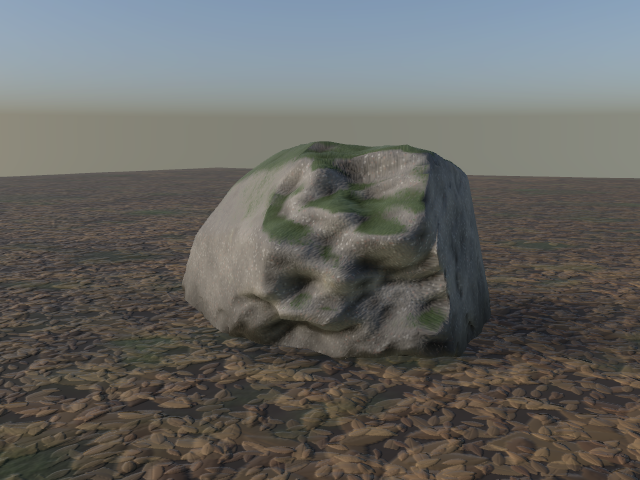
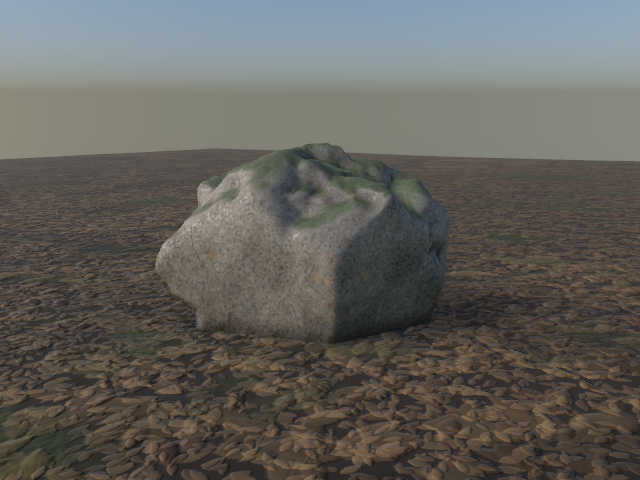
RockShape: warped ridged body, beveled fracture planes and chips, strata, flat tops, contact AO; boulder and pebbles use it

diff --git a/Sources/RealLibrary/Nature/Rocks/RockShape.swift b/Sources/RealLibrary/Nature/Rocks/RockShape.swift
@@ -1,0 +1,220 @@
+import simd
+import Foundation
+
+/// Shared rock geometry. A cube-sphere is ray-cast from the center: the radius along each direction is a
+/// smooth minimum of a domain-warped, ridged ellipsoid and a set of fracture planes. The smooth minimum
+/// leaves a small bevel on every fracture edge; planes cut close to the surface read as chips.
+/// Optional horizontal strata recess soft beds, and the base is flattened and sunk into the ground.
+public struct RockShape: Sendable {
+    /// Full extents in meters (x, y, z) before seed variation.
+    public var size: V3 = V3(1.6, 1.0, 1.3)
+    /// Low-frequency shape noise (fraction of radius).
+    public var lumps: Float = 0.22
+    /// Domain warp of the shape noise (0 = plain fBm).
+    public var warp: Float = 0.45
+    /// Ridged erosion relief (fraction of radius): sharp crests, rounded hollows.
+    public var erosion: Float = 0.1
+    /// Fine surface relief (fraction of radius).
+    public var detail: Float = 0.025
+    /// Large fracture planes and their distance as a fraction of the ellipsoid radius.
+    public var facets = 8
+    public var facetDepth: ClosedRange<Float> = 0.62...0.86
+    /// Small fracture planes near the surface.
+    public var chips = 10
+    /// Fracture planes stand vertical (broken outline of slabs and flat stones).
+    public var verticalFacets = false
+    /// Bevel width in meters at fracture edges.
+    public var bevel: Float = 0.035
+    /// Strata ledge depth in meters (0 = massive rock) and mean bed thickness.
+    public var strata: Float = 0
+    public var bedHeight: Float = 0.22
+    /// Vertical erosion gullies on the sides (fraction of radius), for buttes and cliffs.
+    public var gullies: Float = 0
+    /// Superellipse exponent for the ellipsoid (2 = ellipsoid, 3...4 = boxy blocks).
+    public var squareness: Float = 2
+    /// Fraction of the height buried below y = 0.
+    public var sink: Float = 0.15
+    /// Bottom flattening: fraction of the half-height below center that is pressed flat.
+    public var flatBase: Float = 0.55
+    /// Upper surface flattening for slabs and stepping stones (0 = none, 1 = flat top at the cut).
+    public var flatTop: Float = 0
+    public init() {}
+
+    public func with(_ edit: (inout RockShape) -> Void) -> RockShape { var c = self; edit(&c); return c }
+
+    /// One rock at the given cube-sphere subdivisions per LOD, sharing the same shape.
+    /// Positions are grounded: center on X/Z, base at -sink * height.
+    public func surfaces(seed: UInt64, material: MaterialKey, detail lods: [Int]) -> [Surface] {
+        var rng = SeededRNG(seed: seed)
+        let e = V3(rng.vary(size.x, 0.18), rng.vary(size.y, 0.2), rng.vary(size.z, 0.18)) / 2
+        let ns = UInt32(truncatingIfNeeded: seed &* 0x9E37_79B9)
+        let o1 = rng.unitVector() * 17, o2 = rng.unitVector() * 23, o3 = rng.unitVector() * 31
+        func ell(_ d: V3) -> Float {
+            let q = simd_abs(d / e), p = squareness
+            let s = powf(q.x, p) + powf(q.y, p) + powf(q.z, p)
+            return powf(max(s, 1e-9), -1 / p)
+        }
+        var planes: [(V3, Float)] = []
+        for _ in 0..<facets {
+            var n = rng.unitVector(); n.y *= verticalFacets ? 0.05 : 0.7
+            n = simd_normalize(n)
+            planes.append((n, ell(n) * rng.float(facetDepth)))
+        }
+        for _ in 0..<chips {
+            var n = rng.unitVector(); n.y = verticalFacets ? n.y * 0.05 : abs(n.y) * 0.6 - 0.1
+            n = simd_normalize(n)
+            planes.append((n, ell(n) * rng.float(0.86...0.95)))
+        }
+        let topCut = flatTop > 0 ? e.y * rng.float(0.35...0.55) : 0
+        let bed = bedHeight, bedPhase = rng.float(0...1)
+        func smin(_ a: Float, _ b: Float, _ k: Float) -> Float {
+            let h = max(k - abs(a - b), 0) / k
+            return min(a, b) - h * h * k * 0.25
+        }
+        func radius(_ d: V3) -> Float {
+            let wv = V3(Noise.fbm(d * 1.1 + o1, octaves: 3, seed: ns), Noise.fbm(d * 1.1 + o2, octaves: 3, seed: ns &+ 1),
+                        Noise.fbm(d * 1.1 + o3, octaves: 3, seed: ns &+ 2))
+            let dw = simd_normalize(d + wv * warp)
+            var r = ell(d)
+            let big = Noise.fbm(dw * 1.4, octaves: 3, seed: ns &+ 3)
+            let ridge = Noise.ridged(dw * 2.6, octaves: 4, seed: ns &+ 4) - 0.35
+            let fine = Noise.fbm(dw * 7, octaves: 3, seed: ns &+ 5)
+            // Flat-topped shapes keep the upper hemisphere smooth so the cut stays planar.
+            let calm: Float = flatTop > 0 ? 1 - flatTop * smoothstep(-0.05, 0.25, d.y) * 0.85 : 1
+            r *= 1 + (big * lumps * 2 + ridge * erosion * 2 + fine * detail * 2) * calm
+            if gullies > 0 {
+                let g = Noise.ridged(V3(dw.x * 3.5, dw.y * 0.7, dw.z * 3.5), octaves: 3, seed: ns &+ 12)
+                r *= 1 - gullies * smoothstep(0.35, 0.8, g) * (1 - abs(d.y))
+            }
+            for (n, k) in planes {
+                let c = simd_dot(d, n)
+                if c > 1e-3 {
+                    let wob = 1 + 0.015 * Noise.fbm(d * 6 + n * 3, octaves: 2, seed: ns &+ 6)
+                    r = smin(r, k * wob / c, bevel)
+                }
+            }
+            if topCut > 0 && d.y > 1e-3 {
+                let t = (topCut + 0.01 * Noise.fbm(d * 5, octaves: 2, seed: ns &+ 9) * e.y) / d.y
+                r = smin(r, lerp(r, t, flatTop), bevel * 1.5)
+            }
+            if strata > 0 {
+                // Soft beds recess horizontally; hardness is constant per bed with sharp changes.
+                let y = d.y * r
+                var b = y / bed + bedPhase + 0.25 * Noise.fbm(V3(d.x, 0, d.z) * 2, octaves: 2, seed: ns &+ 7)
+                b += 0.35 * Noise.perlin(V3(0, b * 0.5, 0.5), seed: ns &+ 8)
+                let i = b.rounded(.down), t = b - i
+                func hard(_ k: Float) -> Float { 0.5 + 0.5 * Noise.perlin(V3(k * 0.618 + 0.31, 0.27, 0.73), seed: ns &+ 10) * 1.4 }
+                let h = lerp(hard(i), hard(i + 1), smoothstep(0.88, 1.0, t))
+                let undercut = smoothstep(0.7, 0.95, t) * 0.35
+                let horiz = (1 - d.y * d.y).squareRoot()
+                let vary = 0.55 + 0.9 * saturate(0.5 + Noise.fbm(V3(d.x * 2.5, i * 0.37, d.z * 2.5), octaves: 2, seed: ns &+ 11))
+                r -= strata * ((1 - h) + undercut) * horiz * vary
+            }
+            return r
+        }
+        let flatY = -e.y * flatBase
+        func shape(_ d: V3) -> V3 {
+            var p = d * radius(d)
+            if p.y < flatY { p.y = flatY + (p.y - flatY) * 0.12 }
+            return p
+        }
+        let yaw = simd_quatf(angle: rng.float(0...(2 * .pi)), axis: V3(0, 1, 0))
+        return lods.map { n in
+            var s = Prim.cubeSphere(subdivisions: n, material: material) { yaw.act(shape($0)) }
+            let b = s.bounds, h = b.max.y - b.min.y
+            let off = V3(-(b.min.x + b.max.x) / 2, -b.min.y - h * sink, -(b.min.z + b.max.z) / 2)
+            s.positions = s.positions.map { $0 + off }
+            // Box-mapped UVs by dominant normal axis: cube-face UVs stretch where squashed shapes wrap a side
+            // face over the top, which streaks the normal map.
+            s.uvs = zip(s.positions, s.normals).map { p, n in
+                let a = simd_abs(n)
+                return a.y >= a.x && a.y >= a.z ? V2(p.x, p.z) : (a.x >= a.z ? V2(p.z, p.y) : V2(p.x, p.y))
+            }
+            s.computeTangents()
+            s.occlusion = Array(repeating: 1, count: s.positions.count)
+            s.bakeCavityAO(strength: 0.8)
+            return s
+        }
+    }
+}
+
+/// Contact darkening for rocks on the ground: a dark dirt line where the rock meets y = 0, a softer
+/// gradient over the lower third, and the underside fully occluded.
+func rockContactAO(_ s: inout Surface, height h: Float) {
+    if s.occlusion.count != s.positions.count { s.occlusion = Array(repeating: 1, count: s.positions.count) }
+    for i in s.positions.indices {
+        let y = s.positions[i].y
+        let line = lerp(0.35, 1, smoothstep(-0.02, 0.06 + h * 0.04, y))
+        let broad = lerp(0.7, 1, smoothstep(0, h * 0.45, y))
+        let under = s.normals.count == s.positions.count ? lerp(0.55, 1, smoothstep(-0.6, 0.1, s.normals[i].y)) : 1
+        s.occlusion[i] = min(1, max(0, s.occlusion[i] * line * broad * under))
+    }
+}
+
+/// Darken vertices that sit close to neighboring rocks (center, radius) in a pile.
+func rockProximityAO(_ s: inout Surface, rocks: [(V3, Float)], skip: Int? = nil) {
+    for i in s.positions.indices {
+        var o: Float = 1
+        let p = s.positions[i]
+        for (k, (c, r)) in rocks.enumerated() where k != skip {
+            let d = simd_distance(p, c)
+            if d < r * 1.6 { o *= lerp(0.55, 1, smoothstep(r * 0.85, r * 1.6, d)) }
+        }
+        s.occlusion[i] *= o
+    }
+}
+
+/// One rock in a multi-rock asset: shape, seed, placement and material.
+struct RockPart {
+    var shape: RockShape
+    var seed: UInt64
+    var xform: Xform
+    var material: MaterialKey
+}
+
+/// Build a rock cluster per LOD. `detail(part, lod)` returns cube-sphere subdivisions, or nil to drop the
+/// part at that LOD. Applies contact AO (after placement) and proximity AO between parts.
+func rockCluster(name: String, parts: [RockPart], lods: Int, facets: Bool = false, detail: (Int, Int) -> Int?) -> [Model] {
+    // Shape once per part at every subdivision it needs.
+    var meshes: [[Int: Surface]] = []
+    var spheres: [(V3, Float)] = []
+    for (i, p) in parts.enumerated() {
+        let subs = Array(Set((0..<lods).compactMap { detail(i, $0) })).sorted(by: >)
+        let surfs = p.shape.surfaces(seed: p.seed, material: p.material, detail: subs)
+        var byN: [Int: Surface] = [:]
+        for (n, s) in zip(subs, surfs) { byN[n] = s.transformed(p.xform) }
+        meshes.append(byN)
+        if let s = byN.values.first {
+            let b = s.bounds, e = (b.max - b.min) / 2
+            spheres.append(((b.min + b.max) / 2, (e.x + e.y + e.z) / 3))
+        } else { spheres.append((.zero, 0)) }
+    }
+    let top = spheres.map { $0.0.y + $0.1 }.max() ?? 1
+    return (0..<lods).map { lod in
+        var m = Model(name: name)
+        for i in parts.indices {
+            guard let n = detail(i, lod), var s = meshes[i][n] else { continue }
+            rockProximityAO(&s, rocks: spheres, skip: i)
+            rockContactAO(&s, height: max(0.2, min(top, spheres[i].0.y + spheres[i].1)))
+            m.add(facets ? facetted(s) : s)
+        }
+        return m
+    }
+}
+
+/// Split every triangle into its own vertices with the face normal: hard edges for small low-poly
+/// broken rocks, whose few large facets would otherwise smooth into a blob.
+func facetted(_ s: Surface) -> Surface {
+    var o = Surface(material: s.material)
+    let occ = s.occlusion.count == s.positions.count ? s.occlusion : Array(repeating: 1, count: s.positions.count)
+    for t in stride(from: 0, to: s.indices.count, by: 3) {
+        let i = (0..<3).map { Int(s.indices[t + $0]) }
+        let n = simd_normalize(simd_cross(s.positions[i[1]] - s.positions[i[0]], s.positions[i[2]] - s.positions[i[0]]))
+        guard n.x.isFinite else { continue }
+        let base = UInt32(o.positions.count)
+        for k in i { _ = o.add(s.positions[k], n, s.uvs[k]); o.occlusion.append(occ[k]) }
+        o.tri(base, base + 1, base + 2)
+    }
+    o.computeTangents()
+    return o
+}

diff --git a/Sources/RealLibrary/Nature/Rocks/Boulder.swift b/Sources/RealLibrary/Nature/Rocks/Boulder.swift
@@ -1,51 +1,40 @@
 import simd
 import Foundation
 
-/// Granite boulder: cube-sphere with ridged displacement, planar fracture facets, flattened, sunk base.
+/// Granite boulder about 1.6 x 1.0 x 1.3 m: warped, ridged body cut by beveled fracture planes and chips,
+/// base sunk 15 percent into the ground with a dark dirt line. 3 LODs.
 public struct Boulder: RealAsset {
     public static let id = "boulder"
-    public static let summary = "Faceted granite boulder, cube-sphere + ridged noise + fracture planes, 3 LODs."
+    public static let summary = "Granite boulder, 1.6 m: warped ridged body, beveled fracture faces and chips, sunk base with dirt line, 3 LODs."
     public static let tags = ["nature", "rock"]
-    public static let budget = 12_000
+    public static let budget = 15_000
 
     public var size: V3 = V3(1.6, 1.0, 1.3)
     public var material: MaterialKey = "rock.granite"
-    public var facets = 9
+    public var facets = 8
+    public var chips = 10
+    /// Shape noise amount; 0.3 is a typical weathered boulder, 0.1 a fresh angular block.
     public var roughness: Float = 0.3
     /// Cube-sphere subdivisions per LOD.
-    public var detail: [Int] = [28, 12, 5]
+    public var detail: [Int] = [34, 15, 6]
     public var lodDistances: [Float] = [10, 30]
     public init() {}
 
+    public var shape: RockShape {
+        RockShape().with {
+            $0.size = size; $0.facets = facets; $0.chips = chips
+            $0.lumps = 0.2 * roughness / 0.3; $0.erosion = 0.06 * roughness / 0.3; $0.detail = 0.018
+            $0.bevel = max(0.012, 0.025 * min(size.x, size.y, size.z))
+        }
+    }
+
     public func build(seed: UInt64) -> LODModel {
-        var rng = SeededRNG(seed: seed)
-        let s = V3(rng.vary(size.x, 0.2), rng.vary(size.y, 0.25), rng.vary(size.z, 0.2)) / 2
-        let ns = UInt32(truncatingIfNeeded: seed)
-        var planes: [(V3, Float)] = []
-        for _ in 0..<facets {
-            var n = rng.unitVector(); n.y = abs(n.y) * 0.8 + 0.1
-            planes.append((simd_normalize(n), rng.float(0.62...0.85)))
+        let h = size.y
+        let levels = shape.surfaces(seed: seed, material: material, detail: detail).map { s -> Model in
+            var s = s
+            rockContactAO(&s, height: h)
+            return Model(name: Self.id, surfaces: [s])
         }
-        let r = roughness
-        func shape(_ d: V3) -> V3 {
-            var p = d
-            let big = Noise.fbm(d * 1.3, octaves: 3, seed: ns) * 0.35
-            let ridge = Noise.ridged(d * 2.4, octaves: 4, seed: ns &+ 7) * 0.5
-            p *= 1 + (big + ridge - 0.2) * r * 2.2
-            // Fracture facets: clamp to random planes (scaled space) for broken-stone flats.
-            for (n, k) in planes { let dd = simd_dot(p, n); if dd > k { p -= n * (dd - k) * 0.92 } }
-            var q = p * s
-            if q.y < -s.y * 0.55 { q.y = -s.y * 0.55 + (q.y + s.y * 0.55) * 0.15 }  // flat-ish base
-            return q
-        }
-        func lod(_ n: Int) -> Model {
-            var surf = Prim.cubeSphere(subdivisions: n, material: material, radius: shape)
-            let minY = surf.bounds.min.y
-            surf.positions = surf.positions.map { V3($0.x, $0.y - minY - s.y * 0.18, $0.z) }  // sink into ground
-            surf.occlusion = surf.positions.map { 0.35 + 0.65 * smoothstep(-0.05, s.y * 0.5, $0.y) }  // contact shadow
-            surf.bakeCavityAO(strength: 1.2)
-            return Model(name: Self.id, surfaces: [surf])
-        }
-        return LODModel(levels: detail.map(lod), switchDistances: Array(lodDistances.prefix(detail.count - 1)))
+        return LODModel(levels: levels, switchDistances: Array(lodDistances.prefix(detail.count - 1)))
     }
 }

diff --git a/Sources/RealLibrary/Nature/Rocks/Pebbles.swift b/Sources/RealLibrary/Nature/Rocks/Pebbles.swift
@@ -1,24 +1,27 @@
 import simd
 import Foundation
 
-/// Scatter of small stones (single mesh, one draw).
+/// Scatter of 8 to 20 small rounded stones, 4 to 14 cm, over a 1.2 m disc, in one mesh.
 public struct Pebbles: RealAsset {
     public static let id = "pebbles"
-    public static let summary = "Cluster of 8-20 small rounded stones in one mesh."
+    public static let summary = "Cluster of 8-20 small rounded stones, 4-14 cm, in one mesh."
     public static let tags = ["nature", "rock"]
     public static let budget = 10_000
     public var radius: Float = 0.6
     public var count = 14
+    public var material: MaterialKey = "rock.river"
     public init() {}
     public func build(seed: UInt64) -> LODModel {
         var rng = SeededRNG(seed: seed)
-        var m = Model(name: Self.id)
-        for i in 0..<count {
-            let p = rng.inDisc(radius: radius), sz = rng.float(0.04...0.14)
-            let b = Boulder().with { $0.size = V3(sz * 1.4, sz * 0.8, sz * 1.1); $0.facets = 2; $0.roughness = 0.12; $0.detail = [5] }
-            let one = b.build(seed: seed &+ UInt64(i)).levels[0]
-            m.add(one, Xform(translation: V3(p.x, 0, p.y), rotation: simd_quatf(degrees: rng.float(0...360), axis: .up)))
+        let pebble = RockShape().with {
+            $0.lumps = 0.1; $0.erosion = 0; $0.detail = 0.006; $0.facets = 2; $0.chips = 0
+            $0.facetDepth = 0.75...0.9; $0.squareness = 2.2; $0.sink = 0.25; $0.flatBase = 0.35
         }
-        return LODModel(m)
+        let parts = (0..<count).map { i -> RockPart in
+            let p = rng.inDisc(radius: radius), sz = rng.float(0.04...0.14)
+            return RockPart(shape: pebble.with { $0.size = V3(sz * 1.3, sz * 0.6, sz); $0.bevel = sz * 0.1 },
+                            seed: seed &+ UInt64(i), xform: Xform(translation: V3(p.x, 0, p.y)), material: rng.chance(0.3) ? "rock.granite" : material)
+        }
+        return LODModel(rockCluster(name: Self.id, parts: parts, lods: 1) { _, _ in 6 }[0])
     }
 }
